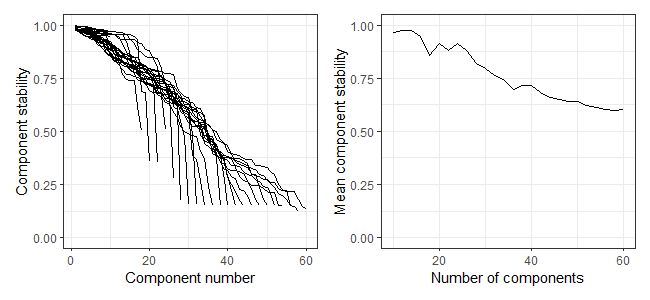
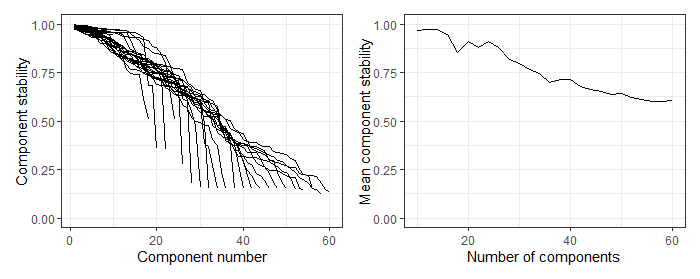
Post-review changes (#28)
* Remove seed setting from start of vignette

* Include package loading chunk in vignette

* Make WGCNA picksoftthreshold silent

* Fix application of capture.output for WGCNA soft thresholding function

* Import capture.output from utils

* Add capture.output to NAMESPACE

* Improve stability plot resolution

* Bump version

diff --git a/NEWS.md b/NEWS.md
@@ -1,3 +1,9 @@
+# ReducedExperiment 0.99.5 (2025-01-09)
+* Switched variable names to CamelCase
+* Added comparison of ReducedExperiment and similar object systems
+* Ensured methods are replicable with seed arguments
+* Passed Bioconductor review
+
 # ReducedExperiment 0.99.0 (2024-09-27)
 * Developed ReducedExperiment classes and functionality
 * Made package compatible with R and BioC checks
